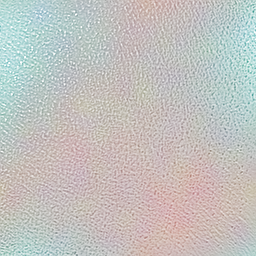
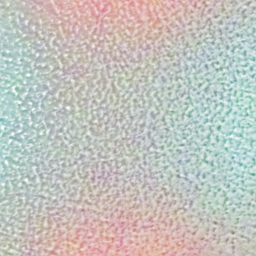
Drawing paper at 0.025 mm per texel, and a smooth Bristol
Brush-engines request, matched against the owner's Infinite Painter reference
(fine 1-2 px speckle, near-continuous grey, no fibre lines). Drawing stock is a
hardwood furnish, not cotton rag: felt2paper grades now carry their own fibre
furnish (0.9 x 0.018 mm, coverage 8-10), texel size and pressing. drawing_tooth
is rebuilt at texelPx 0.5; bristol_paper/bristol_tooth is new (calendered, faint
felt, toothDepthMm 0.035, hard-sized). The watercolours are unchanged.
install_felt_papers.py takes an optional list of grades to rebuild.

Judged in the media lab's pencil sheet. PNG library 20.3 of 25 MiB.

diff --git a/joybrush/tools/paper/felt2paper.py b/joybrush/tools/paper/felt2paper.py
@@ -9,17 +9,19 @@ the SLOPE of the relief, and it cannot hold the fibre grain at all (a phone or s
   2. FIBRES: the grain a pencil's dust catches. Paper IS a random fibre network (Kallmes & Corte 1960): cotton fibres
      ~2.5 mm long, ~0.02 mm wide, laid at random on the mould, clumped into flocs. fibre_network() lays them on a torus
      at their real size and sums their thickness; the flocs follow the photo's own formation (its mottling).
-  3. The grades are the same mould-made sheet, finished differently, so one photo gives all four:
-       cold press  the felt as photographed, fibres on its hills;
+  3. The grades are felt-pressed sheets finished differently, so one photo gives them all:
+       cold press  the felt as photographed, cotton fibres on its hills;
        rough       never pressed: the felt bumps bigger and deeper;
        hot press   pressed between hot plates: the felt ironed mostly flat, the fibre grain left;
-       drawing     a lighter, finer felt, the fibre grain dominant.
+       drawing     short hardwood fibres, densely laid and pressed, over a light fine felt: a fine even speckle;
+       bristol     the same, calendered smooth (hard-sized, for hairlines and detail).
+     Drawing and Bristol tooth is finer than a doc px, so their surfaces hold 0.025 mm per texel (texelPx 0.5).
   4. The LOOK is the photo itself, its lamp shading reduced (the app's relief light draws the bumps from the SURFACE,
      so light and pigment sit on the same hills), at the photo's physical scale.
 
 All lengths are millimetres (R10: 1 doc px = 0.05 mm, PaperPhysical.DOC_PX_PER_MM = 20).
 
-python felt2paper.py <photo> <out_dir> <id> --grade cold|rough|hot|drawing
+python felt2paper.py <photo> <out_dir> <id> --grade cold|rough|hot|drawing|bristol
 Writes look_<id>.jpg, height_<id>.png, fluid_<id>.png; prints the catalogue numbers as one JSON line.
 """
 import argparse
@@ -34,23 +36,29 @@ from photo2paper import gaussian, linear_to_srgb, periodic_component, rank_unifo
 
 DOC_PX_PER_MM = 20.0
 SIZE = 1024            # surface and look tiles; the fluid map is a quarter
-SURFACE_MM = 0.05      # one surface texel = 1 doc px: the fibre grain needs it
+
+# Fibres, by furnish: length, width, how many fibres deep the surface layer is, curl, machine-direction bias.
+COTTON = dict(length_mm=2.5, width_mm=0.02, coverage=4.0, curl=0.6, anisotropy=0.1)      # rag: watercolour papers
+HARDWOOD = dict(length_mm=0.9, width_mm=0.018, coverage=8.0, curl=0.4, anisotropy=0.15)  # eucalyptus/birch: drawing stock
 
 # Per grade. feltMm: the felt's bump wavelength. felt/fibre: their weights in the height (each normalised first).
+# texelMm: the surface's millimetres per texel. pressMm: how far wet pressing and calendering round the fibres off.
 # lookShading: how much of the photo's lamp shading the look keeps. white: the sheet's colour (the photo is an off-white
 # sheet under a dim lamp, so its exposure is set to the real paper's). The rest is physics for the engines (R10 §11).
 GRADES = {
-    'cold':    dict(feltMm=1.1, felt=1.0, fibre=0.55, lookShading=0.3, light=True, white='#F1EEE4',
+    'cold':    dict(feltMm=1.1, felt=1.0, fibre=0.55, texelMm=0.05, fibres=COTTON, pressMm=0.03, lookShading=0.3, light=True, white='#F1EEE4',
                     toothDepthMm=0.18, compliance=0.2, sizing=0.8, absorbency=0.4, capacity=0.6, wickSpeed=0.3, anisotropy=0.1),
-    'rough':   dict(feltMm=2.2, felt=1.0, fibre=0.4, lookShading=0.45, light=True, white='#F1EEE4',
+    'rough':   dict(feltMm=2.2, felt=1.0, fibre=0.4, texelMm=0.05, fibres=COTTON, pressMm=0.03, lookShading=0.45, light=True, white='#F1EEE4',
                     toothDepthMm=0.35, compliance=0.2, sizing=0.75, absorbency=0.45, capacity=0.7, wickSpeed=0.3, anisotropy=0.1),
-    'hot':     dict(feltMm=1.1, felt=0.3, fibre=1.0, lookShading=0.08, light=False, white='#F4F2EB',
+    'hot':     dict(feltMm=1.1, felt=0.3, fibre=1.0, texelMm=0.05, fibres=COTTON, pressMm=0.03, lookShading=0.08, light=False, white='#F4F2EB',
                     toothDepthMm=0.03, compliance=0.15, sizing=0.85, absorbency=0.35, capacity=0.45, wickSpeed=0.25, anisotropy=0.1),
-    'drawing': dict(feltMm=0.5, felt=0.3, fibre=1.0, lookShading=0.1, light=False, white='#F6F5F0',
+    'drawing': dict(feltMm=0.5, felt=0.3, fibre=1.0, texelMm=0.025, fibres=HARDWOOD, pressMm=0.025,
+                    lookShading=0.1, light=False, white='#F6F5F0',
                     toothDepthMm=0.07, compliance=0.55, sizing=0.6, absorbency=0.5, capacity=0.3, wickSpeed=0.35, anisotropy=0.15),
+    'bristol': dict(feltMm=0.4, felt=0.15, fibre=1.0, texelMm=0.025, fibres=dict(HARDWOOD, coverage=10.0), pressMm=0.04,
+                    lookShading=0.04, light=False, white='#F7F7F3',
+                    toothDepthMm=0.035, compliance=0.3, sizing=0.85, absorbency=0.3, capacity=0.2, wickSpeed=0.2, anisotropy=0.2),
 }
-# Cotton fibre (rag papers): length, width, how many fibres deep the surface layer is, curl, machine-direction bias.
-FIBRE = dict(length_mm=2.5, width_mm=0.02, coverage=4.0, curl=0.6, anisotropy=0.1)
 
 
 def fft_resize(img, n):
@@ -244,8 +252,9 @@ def convert(photo, grade, seed=1):
     felt_full, cavity = relief_from_shading(shade, bump_px)
     felt_full = felt_full - gaussian(felt_full, 0.8 * bump_px)         # integration's runaway lows go; the bumps stay
 
-    # SURFACE: SIZE texels of SURFACE_MM. The felt is the matching piece of the photo, upsampled smoothly.
-    tile_mm = SIZE * SURFACE_MM
+    # SURFACE: SIZE texels of texelMm. The felt is the matching piece of the photo, upsampled smoothly.
+    texel_mm = g['texelMm']
+    tile_mm = SIZE * texel_mm
     crop = int(round(tile_mm / photo_mm_per_px))
     if crop > side:
         raise SystemExit(f'{photo} holds {side * photo_mm_per_px:.0f} mm; a {tile_mm:.0f} mm surface needs more')
@@ -255,13 +264,13 @@ def convert(photo, grade, seed=1):
     # Formation (flocs, 2-8 mm): the photo's own mottling over the same piece, without the bumps.
     mottle = periodic_crop(gaussian(y, 1.5 * bump_px), crop, at)
     mottle = fft_resize(mottle, SIZE)
-    formation = norm(gaussian(mottle, 2.0 / SURFACE_MM) - gaussian(mottle, 8.0 / SURFACE_MM))
+    formation = norm(gaussian(mottle, 2.0 / texel_mm) - gaussian(mottle, 8.0 / texel_mm))
     floc = np.clip(1.0 + 0.35 * formation, 0.2, None)
-    fibres = fibre_network(SIZE, SURFACE_MM, floc, seed=seed, **FIBRE)
-    fibres = gaussian(fibres, 0.6)                                      # wet pressing rounds the fibre edges
+    fibres = fibre_network(SIZE, texel_mm, floc, seed=seed, **g['fibres'])
+    fibres = gaussian(fibres, g['pressMm'] / texel_mm)                  # pressing rounds the fibre edges
     # The press evens out the sheet's thick and thin flocs on its top face (they stay in the fluid map, as absorbency);
     # what a pencil meets is the fibre grain within a millimetre.
-    grain = fibres - gaussian(fibres, 0.5 / SURFACE_MM)
+    grain = fibres - gaussian(fibres, 0.5 / texel_mm)
     h = g['felt'] * norm(felt) + g['fibre'] * norm(grain)
     h = rank_uniform(h)
     hbytes = np.round(h * 255).astype(np.uint8)
@@ -272,12 +281,12 @@ def convert(photo, grade, seed=1):
     f4 = gaussian(fibres, 1.0)
     gx = (np.roll(f4, -1, 1) - np.roll(f4, 1, 1)) / 2
     gy = (np.roll(f4, -1, 0) - np.roll(f4, 1, 0)) / 2
-    sig = 0.5 * FIBRE['length_mm'] / SURFACE_MM
+    sig = 0.5 * g['fibres']['length_mm'] / texel_mm
     jxx = gaussian(gx * gx, sig); jyy = gaussian(gy * gy, sig); jxy = gaussian(gx * gy, sig)
     lam = np.sqrt((jxx - jyy) ** 2 + 4 * jxy ** 2)
     coherence = np.clip(lam / (jxx + jyy + 1e-12), 0, 1)
     c2 = -(jxx - jyy) / (lam + 1e-12); s2 = -(2 * jxy) / (lam + 1e-12)   # fibres run across their gradient
-    valleys = norm(-(felt - gaussian(felt, 0.5 * g['feltMm'] / SURFACE_MM)))
+    valleys = norm(-(felt - gaussian(felt, 0.5 * g['feltMm'] / texel_mm)))
     fluid = np.dstack([0.5 + 0.17 * formation, 0.5 + 0.5 * c2 * coherence, 0.5 + 0.5 * s2 * coherence,
                        0.5 + 0.12 * valleys + 0.08 * formation])
     fluid = np.dstack([fft_resize(fluid[..., k], q) for k in range(4)])
@@ -295,7 +304,7 @@ def convert(photo, grade, seed=1):
     look = Image.fromarray(np.round(linear_to_srgb(look_lin) * 255).astype(np.uint8))
     look_texel_px = side * photo_mm_per_px * DOC_PX_PER_MM / SIZE
     return dict(look=look, height=hbytes, fluid=fluid, slopeRange=slope_range, heightMean=float(hbytes.mean() / 255.0),
-                lookTexelPx=round(look_texel_px, 3), texelPx=SURFACE_MM * DOC_PX_PER_MM, bumpPx=bump_px, crop=(crop, at), cavity=cavity)
+                lookTexelPx=round(look_texel_px, 3), texelPx=texel_mm * DOC_PX_PER_MM, bumpPx=bump_px, crop=(crop, at), cavity=cavity)
 
 
 def main():

diff --git a/joybrush/tools/paper/install_felt_papers.py b/joybrush/tools/paper/install_felt_papers.py
@@ -4,7 +4,7 @@ All four come from ONE raking-lit photograph of a real cold-press watercolour sh
 provenance) through felt2paper.py: the felt bumps measured from the photo, the fibre grain from a fibre-network model at
 true size, each grade finished as the mill finishes it. Requested by the brush-engines session for pencil and watercolour.
 
-python install_felt_papers.py <scan.jpg> <assets_paper_dir>
+python install_felt_papers.py <scan.jpg> <assets_paper_dir> [grade ...]     (no grades = all; each grade is ~2 min)
 """
 import json
 import os
@@ -21,6 +21,7 @@ FELT = [
     ('rough', 'watercolour_rough', 'Watercolour, rough', 'rough_press', 'Rough watercolour tooth'),
     ('hot', 'watercolour_hot', 'Watercolour, hot press', 'hot_press', 'Hot-press tooth'),
     ('drawing', 'drawing_paper', 'Drawing paper', 'drawing_tooth', 'Drawing tooth'),
+    ('bristol', 'bristol_paper', 'Bristol, smooth', 'bristol_tooth', 'Bristol tooth'),
 ]
 PHYSICS = ('toothDepthMm', 'compliance', 'sizing', 'absorbency', 'capacity', 'wickSpeed', 'anisotropy')
 
@@ -33,13 +34,15 @@ def upsert(entries, by_id, entry):
         entries.append(entry); by_id[entry['id']] = entry
 
 
-def main(scan, assets):
+def main(scan, assets, only=()):
     cat_path = os.path.join(assets, 'catalogue.json')
     cat = json.load(open(cat_path, encoding='utf-8'))
     looks = {l['id']: l for l in cat['looks']}
     surfaces = {s['id']: s for s in cat['surfaces']}
     work = os.path.join(HERE, 'out', 'felt')
     for grade, look_id, look_name, surf_id, surf_name in FELT:
+        if only and grade not in only:
+            continue
         res = subprocess.run([sys.executable, os.path.join(HERE, 'felt2paper.py'), scan, work, look_id, '--grade', grade],
                              check=True, capture_output=True, text=True)
         info = json.loads(res.stdout.strip().splitlines()[-1])
@@ -68,4 +71,4 @@ def main(scan, assets):
 
 
 if __name__ == '__main__':
-    main(sys.argv[1], sys.argv[2])
+    main(sys.argv[1], sys.argv[2], tuple(sys.argv[3:]))

diff --git a/tasks/joybrush/research/R10_paper_and_canvas.md b/tasks/joybrush/research/R10_paper_and_canvas.md
@@ -341,8 +341,15 @@ The brush-engines session asked for, in order: a medium-tooth drawing paper (too
   | rough | 2.2 mm | 1 : 0.4 | 0.35 | 45%, relief light on |
   | hot press | 1.1 mm | 0.3 : 1 | 0.03 | 8%, light off |
   | drawing | 0.5 mm | 0.3 : 1 | 0.07 | 10%, light off |
+  | bristol | 0.4 mm | 0.15 : 1 | 0.035 | 4%, light off |
 
-  Surfaces are all texelPx 1.0 (0.05 mm), 1024² (a 51 mm tile). The fluid G,B channels are the fibres' own directions (structure tensor of the network). A is capacity in the felt's valleys.
+  **Revised for drawing, plus Bristol added** (brush-engines request, matched against the owner's Infinite Painter "Proko" screenshots: fine 1–2 px speckle, a near-continuous grey body, no fibre lines). Both drawing and Bristol now:
+  - hold 0.025 mm per texel (texelPx 0.5);
+  - use a hardwood furnish: fibres 0.9 mm × 0.018 mm, coverage 8 (Bristol 10).
+
+  Pressing rounds them off: 0.025 mm for drawing, 0.04 mm for Bristol, which is calendered. The cotton-rag watercolours keep their 2.5 mm fibres at 0.05 mm per texel.
+
+  Watercolour surfaces are texelPx 1.0 (0.05 mm), 1024² (a 51 mm tile). Drawing and Bristol are texelPx 0.5 (a 25.6 mm tile). The fluid G,B channels are the fibres' own directions (structure tensor of the network). A is capacity in the felt's valleys.
 - **Looks**: the whole photo at its physical scale (cold 3.0 doc px per texel, rough 6.0, drawing 1.4), with its lamp shading reduced and exposed to the sheet's real white.
 
 **Judged on the PC** (`papersim.py`, pencil threshold): drawing and hot press take graphite as granular, fibre-broken strokes, the real look of pencil on a smooth sheet. Cold and rough catch on the felt hills, with fibre-ragged edges.
@@ -357,5 +364,6 @@ The brush-engines session asked for, in order: a medium-tooth drawing paper (too
 | `watercolour_cold` | `cold_press` |
 | `watercolour_hot` | `hot_press` |
 | `watercolour_rough` | `rough_press` |
+| `bristol_paper` | `bristol_tooth` |
 
 **Upgrade path:** rough is the cold-press felt scaled up. A real rough-paper scan (or an owner photo under a raking lamp) would replace its felt; the tool takes any such photo.

diff --git a/joybrush/assets/paper/SOURCES.md b/joybrush/assets/paper/SOURCES.md
@@ -69,14 +69,17 @@ CC0 (public domain). A raking-lit 1920² photo of a real cold-press watercolour 
 `joybrush/tools/paper/install_felt_papers.py` runs `felt2paper.py` once per grade:
 
 1. The felt bumps are measured from the photo by shape-from-shading, taken from its sharpest square and made isotropic.
-2. The fibre grain is a random fibre-network model at true size: cotton fibres 2.5 mm × 0.02 mm, 0.05 mm per texel.
+2. The fibre grain is a random fibre-network model at true size:
+   - watercolour: cotton fibres 2.5 mm × 0.02 mm, at 0.05 mm per texel;
+   - drawing and Bristol: hardwood fibres 0.9 mm × 0.018 mm, at 0.025 mm per texel.
 3. The look is the photo with its lamp shading reduced, exposed to the sheet's white, at its physical scale.
 
 R10 §11.1 has the method and the numbers.
 
 | Look id | Surface id | Grade |
 |---|---|---|
-| drawing_paper | drawing_tooth | drawing (fibre grain over a light 0.5 mm felt) |
+| drawing_paper | drawing_tooth | drawing (hardwood fibre grain at 0.025 mm, over a light 0.5 mm felt) |
 | watercolour_cold | cold_press | cold press (1.1 mm felt, fibres on its hills) |
 | watercolour_hot | hot_press | hot press (felt pressed nearly flat, fibre grain) |
 | watercolour_rough | rough_press | rough (2.2 mm felt, deeper) |
+| bristol_paper | bristol_tooth | Bristol (hardwood fibre grain, calendered, faint 0.4 mm felt) |
